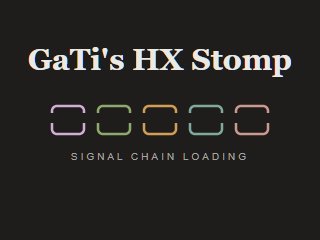
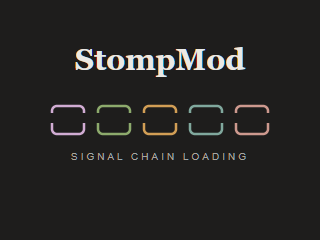
Boot screen: the web build's default picture reads StompMod, and the boot line Made by GaTi stays on any picture

Changed region(s): [[0.0625, 0.175, 0.9375, 0.3208]]

diff --git a/tests/test_m4cache.py b/tests/test_m4cache.py
@@ -53,8 +53,9 @@ def test_web_options_are_the_opt_in_features():
 
 
 def test_full_env_is_the_full_build_inputs():
-    """The non-switch inputs of the Full build: the boot line hidden, and the repository's signal chain picture, filled."""
-    assert m4cache.FULL_ENV == {"HX_SPLASH_LINE": "hide", "HX_SPLASH": "assets/boot/signal_chain.png", "HX_SPLASH_FIT": "fill"}
+    """The non-switch inputs of the Full build: the boot line "Made by GaTi", and the repository's signal chain picture, filled."""
+    assert m4cache.FULL_ENV == {"HX_SPLASH_LINE": "show", "HX_SPLASH_TEXT": "Made by GaTi", "HX_SPLASH": "assets/boot/signal_chain.png",
+                                "HX_SPLASH_FIT": "fill"}
     assert os.path.isfile(os.path.join(m4cache.ROOT, m4cache.FULL_ENV["HX_SPLASH"]))
 
 
@@ -63,7 +64,7 @@ def test_build_env_is_every_input_of_a_pinned_build(monkeypatch):
     monkeypatch.setenv("PATH_KEPT", "1")
     env = m4cache.build_env(["HX_A", "HX_MODEL_PICTURES"], "C:/res")
     assert env["HX_A"] == "1" and env["HX_MODEL_PICTURES"] == "C:/res" and "HX_BPM" not in env and env["PATH_KEPT"] == "1"
-    assert env["HX_SPLASH_LINE"] == "hide" and env["HX_SPLASH_FIT"] == "fill"
+    assert env["HX_SPLASH_LINE"] == "show" and env["HX_SPLASH_TEXT"] == "Made by GaTi" and env["HX_SPLASH_FIT"] == "fill"
     assert os.path.samefile(env["HX_SPLASH"], os.path.join(m4cache.ROOT, "assets/boot/signal_chain.png")) and os.path.isabs(env["HX_SPLASH"])
     assert m4cache.build_env(["HX_MODEL_PICTURES"])["HX_MODEL_PICTURES"] == "1", "its usual place"
 

diff --git a/tools/build_verify.py b/tools/build_verify.py
@@ -1,8 +1,8 @@
 """build_verify.py - what the web page checks of a build whose boot picture is the user's, which no pinned file MD5 can cover.
 
 A build that differs from the tested one in the boot picture only differs in Entry 8, inside two pixel ranges: the Screen_Boot
-image, and Icon_Firmware, which the hidden boot line (HX_SPLASH_LINE=hide) paints in the picture's corner colour
-(tools/features/splash.py). entry_hashes() is the MD5 of every L6IA entry's payload but Entry 8's, and of Entry 8 with those two
+image, and Icon_Firmware, which a hidden boot line (HX_SPLASH_LINE=hide) paints in the picture's corner colour
+(tools/features/splash.py; the page's builds show the line "Made by GaTi", so Icon_Firmware is stock there and the mask is spare). entry_hashes() is the MD5 of every L6IA entry's payload but Entry 8's, and of Entry 8 with those two
 ranges zeroed; tools/m4cache.py pins them for the default picture build, and web/firmware-worker.js (through this module, run in
 Pyodide) compares them with the result. boot_picture() decodes the picture back out of a result, to compare with the uploaded one.
 tests/test_build_verify.py proves the premise: two builds with different pictures have the same entry_hashes().

diff --git a/tools/m4cache.py b/tools/m4cache.py
@@ -29,7 +29,7 @@ ROOT = os.path.join(os.path.dirname(os.path.abspath(__file__)), '..')
 UNIT = 'HX_Stomp'                   # the features are the HX Stomp's only
 # The inputs besides the switches that every build of the page has (this fork's Full build), relative to the repository: written to
 # the cache as 'env', so the page sets what the pinned builds had. The boot picture is the repository's own; the user's replaces it.
-FULL_ENV = {'HX_SPLASH_LINE': 'hide', 'HX_SPLASH': 'assets/boot/signal_chain.png', 'HX_SPLASH_FIT': 'fill'}
+FULL_ENV = {'HX_SPLASH_LINE': 'show', 'HX_SPLASH_TEXT': 'Made by GaTi', 'HX_SPLASH': 'assets/boot/signal_chain.png', 'HX_SPLASH_FIT': 'fill'}
 MODEL_PICTURES = 'HX_MODEL_PICTURES'    # the option whose value is HX Edit's res folder, not '1'
 FINGERPRINT = r'HX Edit fingerprint ([0-9a-f]{64})'     # the line features/model_pictures.py prints; the page reads it from the log
 

diff --git a/docs/building.md b/docs/building.md
@@ -42,7 +42,7 @@ HX_TUNER=1 HX_BPM=1 HX_DSP_METER=1 HX_BREATHING_LINE=1 HX_LONG_PRESS=1 HX_MORE_S
 
 ## Build in the browser
 
-This fork's setup page, **StompMod** at `https://gatistudio.com/stompmod/web/`, does the Full build in the browser, with nothing uploaded: you drop your stock `.hxf` (HX Stomp only) and download the firmware, with the boot picture of your choice (`assets/boot/signal_chain.png` by default) and, if you tick it and pick HX Edit's `res` folder, the model pictures. It runs `build.py`'s own commands in [Pyodide](https://pyodide.org) (`web/firmware-worker.js`); its builds have the same MD5s as `build.py`'s, and the page says **Verified** when the file is the tested one, or, with a boot picture of your own, when only that picture differs (`tools/build_verify.py`).
+This fork's setup page, **StompMod** at `https://gatistudio.com/stompmod/web/`, does the Full build in the browser, with nothing uploaded: you drop your stock `.hxf` (HX Stomp only) and download the firmware, with the boot picture of your choice (`assets/boot/signal_chain.png`, "StompMod", by default) and the boot line "Made by GaTi" (fixed: `HX_SPLASH_LINE=show`, `HX_SPLASH_TEXT`, in `tools/m4cache.py`'s `FULL_ENV`) and, if you tick it and pick HX Edit's `res` folder, the model pictures. It runs `build.py`'s own commands in [Pyodide](https://pyodide.org) (`web/firmware-worker.js`); its builds have the same MD5s as `build.py`'s, and the page says **Verified** when the file is the tested one, or, with a boot picture of your own, when only that picture differs (`tools/build_verify.py`).
 
 The browser has no clang to assemble the features' M4 code, so each release brings that code made in advance: `tools/m4cache.py` runs the page's features on the stock file, for every combination of the options (the model pictures change every module's key), and keeps what each module assembled to, with the MD5s, the entry hashes and the fingerprint of the HX Edit pictures it was built from, in `m4cache.json`; `tools/m4asm.py` reads it when `HX_M4_CACHE` names it. The file holds only our own code and hashes, no Line 6 data, and is never committed. Make it from the stock file and an installed HX Edit:
 
